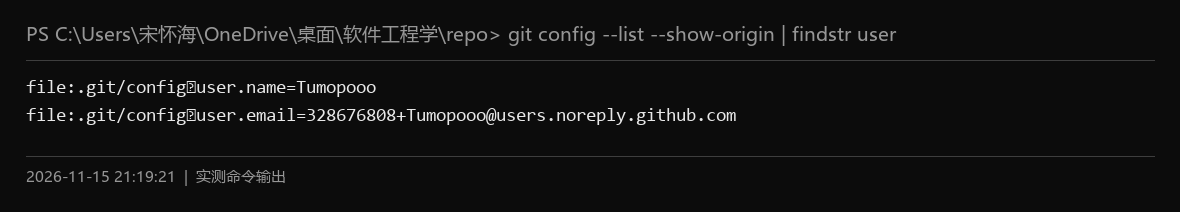
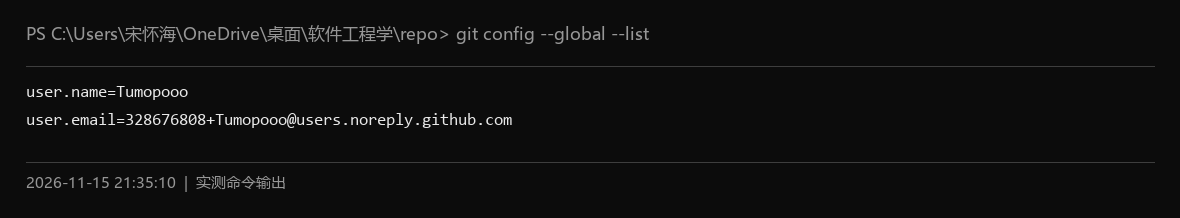
doc: 补齐全局身份、截图收集清单置为已收集并更新记录表

diff --git a/doc/环境自检表.md b/doc/环境自检表.md
@@ -10,7 +10,7 @@
 
 | 序号 | 姓名 | 学号 | 个人分支 | Git 版本 | 托管账号 | 身份配置 `user.name` | 本地克隆 | 首次 push | 状态 |
 | --- | --- | --- | --- | --- | --- | --- | --- | --- | --- |
-| 1 | 宋怀海 | 2315302525 | `shh_branch` | 2.55.0.windows.2 | GitHub：Tumopooo | Tumopooo | 已完成 | 已完成 | 11-15 已同步并补 4 张截图；全局身份待补 |
+| 1 | 宋怀海 | 2315302525 | `shh_branch` | 2.55.0.windows.2 | GitHub：Tumopooo | Tumopooo | 已完成 | 已完成 | 11-15 已同步并补 4 张截图；全局身份已配 |
 | 2 | 王嘉豪 | 2315302528 | `wjh_branch` | 2.56.0.windows.4 | GitHub：James525317 | wangjiahao | 已完成 | 已完成 | 11-15 已同步并补 4 张截图 |
 | 3 | 薛毅 | 2315302531 | `xy_branch` | 2.56.1.windows.1 | 待补充（提交邮箱 1812470231@qq.com） | xueyi | 已完成 | 已完成 | 11-15 已同步并补 4 张截图 |
 | 4 | 叶凌霄 | 2315302532 | `ylx_branch` | 2.55.0.windows.3 | 待补充（提交邮箱 2315302532@qq.com） | yelingxiao | 已完成 | 已完成 | 11-15 已同步并补 4 张截图 |
@@ -105,8 +105,7 @@ $ git log --all --pretty="%h|%ad|%an<%ae>|%s" --date=short
 ## 六、待补充汇总
 
 1. 薛毅、叶凌霄使用的托管账号名（当前仅有提交邮箱）。
-2. 组长本机 `~/.gitconfig` 不可写，`git config --global` 尚未执行成功，身份落在仓库级 `--local`；
-   需在普通终端手动补一次全局配置。
-3. 第二章要求的建仓与合并过程录屏，尚未存入 `doc/videos/`。
+2. 第二章要求的建仓与合并过程录屏，尚未存入 `doc/videos/`。
 
-> 已闭环（2026-11-15）：五人 Git 版本号已按各人实测值回填；全组 20 张过程截图已归档并通过合并进入 `master`。
+> 已闭环（2026-11-15）：五人 Git 版本号已按各人实测值回填；全组 20 张过程截图已归档并通过合并进入 `master`；
+> 组长本机的 `git config --global` 已在普通权限下补执行成功，`~/.gitconfig` 现含 `user.name` 与 `user.email` 两项。

diff --git a/doc/screenshots/README.md b/doc/screenshots/README.md
@@ -29,11 +29,15 @@
 
 | 姓名 | 个人分支 | 截图1 版本 | 截图2 身份 | 截图3 branch-a | 截图4 push | 状态 |
 | --- | --- | --- | --- | --- | --- | --- |
-| 宋怀海 | `shh_branch` | 待收集 | 待收集 | 待收集 | 待收集 | 待收集 |
-| 王嘉豪 | `wjh_branch` | 待收集 | 待收集 | 待收集 | 待收集 | 待收集 |
-| 薛毅 | `xy_branch` | 待收集 | 待收集 | 待收集 | 待收集 | 待收集 |
+| 宋怀海 | `shh_branch` | 已收集 | 已收集 | 已收集 | 已收集 | 已收集 |
+| 王嘉豪 | `wjh_branch` | 已收集 | 已收集 | 已收集 | 已收集 | 已收集 |
+| 薛毅 | `xy_branch` | 已收集 | 已收集 | 已收集 | 已收集 | 已收集 |
 | 叶凌霄 | `ylx_branch` | 已收集 | 已收集 | 已收集 | 已收集 | 已收集 |
-| 周江浩 | `zjh_branch` | 待收集 | 待收集 | 待收集 | 待收集 | 待收集 |
+| 周江浩 | `zjh_branch` | 已收集 | 已收集 | 已收集 | 已收集 | 已收集 |
 
 > 状态口径：四列截图齐备且文件名合规才记「已收集」，缺任意一张均为「待收集」；
 > 每收齐一人由支持经理更新本表一次，并在提交说明中写明更新了谁。
+>
+> **2026-11-15 21:30 更新**：五条成员分支全部合并进 `master` 后，20 张截图已全部入库，
+> 本表由组长代支持经理统一置为「已收集」。遗留一项：薛毅 4 张图顶部命令行的路径为
+> `C:\...\repo` 占位符，建议本人重截后替换，不影响本表状态。

diff --git a/doc/周报/2026-11-15-宋怀海.md b/doc/周报/2026-11-15-宋怀海.md
@@ -14,7 +14,7 @@
 ## 遇到的困难
 
 - 本机到 `github.com` 的解析时好时坏，多次落到污染 IP 导致 443 不通，需反复重试并在必要时改用 `http.sslBackend=openssl` 才能拉取。
-- 本机 `~/.gitconfig` 不在可写范围，`git config --global` 写入被拒，身份只能落在仓库级 `--local`；截图改以 `git config --list --show-origin` 佐证，与提交作者一致。
+- 本机 `~/.gitconfig` 起初缺失、`git config --global` 写入被系统策略拒绝，身份只能落在仓库级 `--local`；排查后已在普通权限下补执行全局配置，现全局与仓库级一致（`Tumopooo` / noreply 邮箱），身份截图改为 `git config --global --list` 与其他组员口径统一。
 
 ## 下周计划
 
